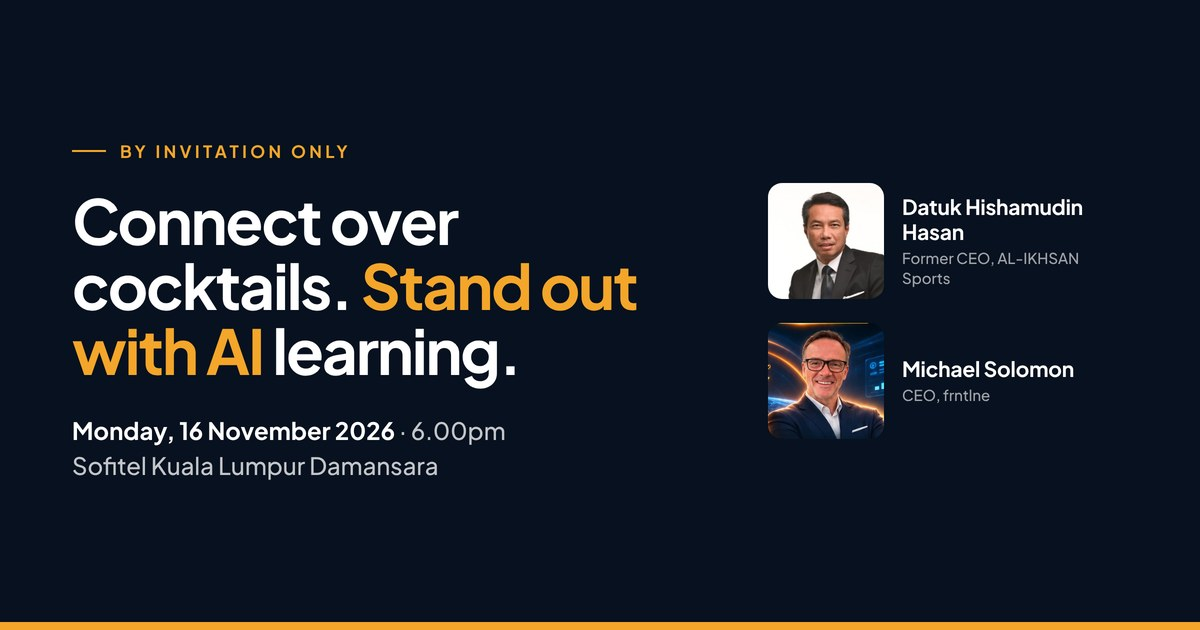
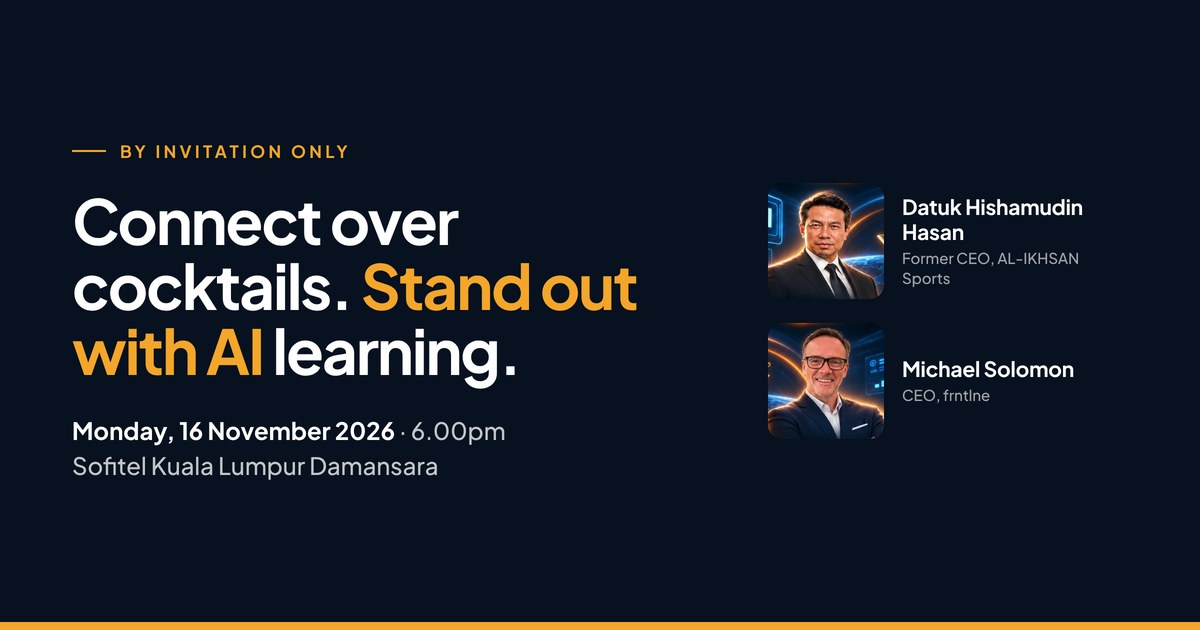
Crop both evening speakers from the poster so they match
Datuk Hishamudin's photo was his white-background studio headshot, next
to Solly's poster crop on navy. Both are now cropped from the poster with
the same framing (head 54% of the frame, eyes at 36%), nudged 6px down so
the title banner's edge stays out of the top. They are saved under new
names because /assets is cached as immutable. The share card is
regenerated with the new pair.

Claude-Session: https://claude.ai/code/session_017QtqxnwnK9QQZnM2eb5CB4

Changed region(s): [[0.6167, 0.2714, 0.74, 0.4825], [0.6167, 0.5127, 0.74, 0.6937]]

diff --git a/executive-evening-2026/index.html b/executive-evening-2026/index.html
@@ -82,14 +82,14 @@
     <h2 class="ev-kicker" id="ev-speakers-h">Who you’ll meet</h2>
     <div class="ev-pair">
       <article class="ev-person ev-person-duo">
-        <img src="/assets/executive-evening-2026/hishamudin.jpg" alt="Datuk Hishamudin Hasan" width="560" height="560" loading="lazy">
+        <img src="/assets/executive-evening-2026/hishamudin-poster.jpg" alt="Datuk Hishamudin Hasan" width="560" height="560" loading="lazy">
         <div>
           <h3>Datuk Hishamudin Hasan</h3>
           <p class="ev-bio">Former CEO, AL-IKHSAN Sports<br>Former CEO, Central Sugars Refinery (CSR)<br>Former Deputy CEO, 7-Eleven Malaysia</p>
         </div>
       </article>
       <article class="ev-person ev-person-duo">
-        <img src="/assets/executive-evening-2026/solly.jpg" alt="Michael Solomon" width="560" height="560" loading="lazy">
+        <img src="/assets/executive-evening-2026/solly-poster.jpg" alt="Michael Solomon" width="560" height="560" loading="lazy">
         <div>
           <h3>Michael Solomon <span class="ev-aka">(Solly)</span></h3>
           <p class="ev-role-line">Chief Executive Officer, frntlne</p>

diff --git a/tools/og-executive-evening-2026.html b/tools/og-executive-evening-2026.html
@@ -31,8 +31,8 @@
     <p class="facts"><b>Monday, 16 November 2026</b> · 6.00pm<br>Sofitel Kuala Lumpur Damansara</p>
   </div>
   <div class="who">
-    <div class="p"><img src="../assets/executive-evening-2026/hishamudin.jpg" alt=""><div><b>Datuk Hishamudin Hasan</b><span>Former CEO, AL-IKHSAN Sports</span></div></div>
-    <div class="p"><img src="../assets/executive-evening-2026/solly.jpg" alt=""><div><b>Michael Solomon</b><span>CEO, frntlne</span></div></div>
+    <div class="p"><img src="../assets/executive-evening-2026/hishamudin-poster.jpg" alt=""><div><b>Datuk Hishamudin Hasan</b><span>Former CEO, AL-IKHSAN Sports</span></div></div>
+    <div class="p"><img src="../assets/executive-evening-2026/solly-poster.jpg" alt=""><div><b>Michael Solomon</b><span>CEO, frntlne</span></div></div>
   </div>
 </div>
 <div class="rule"></div>

diff --git a/README.md b/README.md
@@ -379,9 +379,11 @@ Script, not new CSS.
   drafted for the page and need sign-off; the poster only names the features.
 - "RSVP by Monday, 9 November" is a default chosen for catering numbers.
 
-**To swap in when it arrives:** Solly's own headshot. The current one is
-cropped from the poster and carries its blue backdrop next to Datuk's white
-studio photo.
+**Speaker photos** are both cropped from the poster, with the same framing
+(head 54% of the frame, eyes at 36%), so they share its navy backdrop and read
+as a pair: `hishamudin-poster.jpg` and `solly-poster.jpg`. If you swap in real
+headshots, swap both, so one studio photo doesn't sit beside one poster crop,
+and give them new file names (see below).
 
 ## Replacing an image: use a new file name
 
